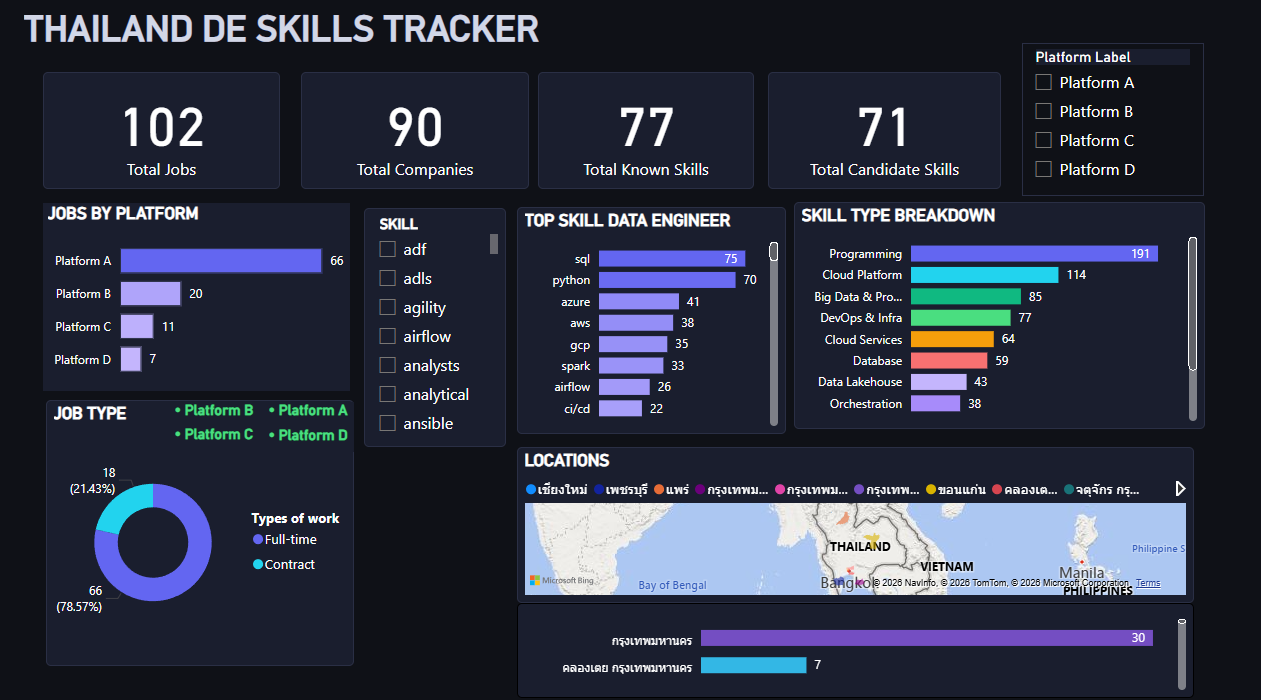
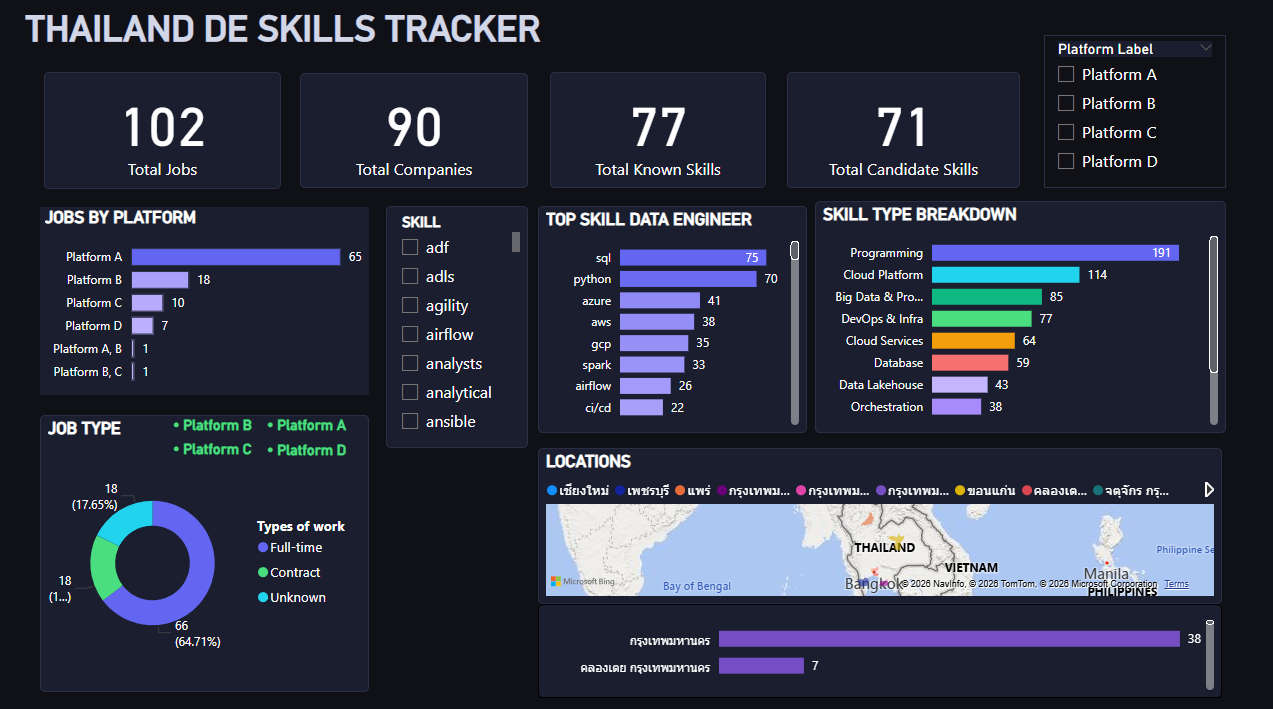
Update Power BI dashboard screenshot and embed link
Refresh docs/index.html with the latest dashboard screenshot and
the current working Power BI view link (old embed link had expired).

diff --git a/docs/index.html b/docs/index.html
@@ -10,11 +10,11 @@
 <meta property="og:title" content="Thailand Data Engineer Skills Tracker" />
 <meta property="og:description" content="An end-to-end Data Engineering pipeline — aggregating from 4 job platforms, Medallion (Bronze→Silver→Gold) modeling in dbt + PostgreSQL, orchestrated with Mage.ai, visualized in Power BI." />
 <meta property="og:url" content="https://windgabrielx.github.io/thailand-de-skills-tracker/" />
-<meta property="og:image" content="https://windgabrielx.github.io/thailand-de-skills-tracker/assets/dashboard.png?v=104" />
+<meta property="og:image" content="https://windgabrielx.github.io/thailand-de-skills-tracker/assets/dashboard.png?v=106" />
 <meta name="twitter:card" content="summary_large_image" />
 <meta name="twitter:title" content="Thailand Data Engineer Skills Tracker" />
 <meta name="twitter:description" content="End-to-end DE pipeline: 4 job boards → dbt star schema → Power BI. Python · PostgreSQL · Mage.ai · Docker." />
-<meta name="twitter:image" content="https://windgabrielx.github.io/thailand-de-skills-tracker/assets/dashboard.png?v=104" />
+<meta name="twitter:image" content="https://windgabrielx.github.io/thailand-de-skills-tracker/assets/dashboard.png?v=106" />
 <link rel="preconnect" href="https://fonts.googleapis.com" />
 <link rel="preconnect" href="https://fonts.gstatic.com" crossorigin />
 <link href="https://fonts.googleapis.com/css2?family=Inter:wght@400;500;600;700;800;900&family=JetBrains+Mono:wght@400;500&display=swap" rel="stylesheet" />
@@ -791,7 +791,7 @@ footer{margin-top:40px;padding:48px clamp(16px,4vw,48px) 40px;border-top:1px sol
       <div class="node glass n-gold"><div class="nicon">🥇</div><div class="nname">GOLD</div><div class="ndesc">Star schema</div><div class="ntag">6 tables</div></div>
       <div class="connector"><svg viewBox="0 0 56 40"><path class="flow-dash" d="M2 20 H54"/><circle class="flow-dot" r="3.5"><animateMotion dur="2s" begin="1.2s" repeatCount="indefinite" path="M2 20 H54"/></circle></svg></div>
       <a class="node glass n-cyan node-live"
-         href="https://app.powerbi.com/view?r=eyJrIjoiZmY5NWMxYWQtMDk4Yy00ODIxLTgyZGEtNDlkYmViNTQzNjYyIiwidCI6ImRiNWRlZjZiLThmZDgtNGEzZS05MWRjLThkYjI1MDFhNjgyMiIsImMiOjEwfQ%3D%3D"
+         href="https://app.powerbi.com/view?r=eyJrIjoiYzBkMDc0MGYtMGY0OS00N2Q0LWI2MTctYjA2ZTJhMWY1NTgyIiwidCI6ImRiNWRlZjZiLThmZDgtNGEzZS05MWRjLThkYjI1MDFhNjgyMiIsImMiOjEwfQ%3D%3D"
          target="_blank" rel="noopener noreferrer"
          aria-label="Open the live Power BI dashboard in a new tab">
         <span class="live-badge"><span class="ld"></span>LIVE</span>
@@ -903,7 +903,7 @@ footer{margin-top:40px;padding:48px clamp(16px,4vw,48px) 40px;border-top:1px sol
     </div>
     <div class="frame purple reveal d1">
       <div class="bar"><i></i><i></i><i></i></div>
-      <img src="assets/dashboard.png?v=104" alt="Power BI dashboard — KPI cards, top skills, job type breakdown and locations map" loading="lazy"/>
+      <img src="assets/dashboard.png?v=106" alt="Power BI dashboard — KPI cards, top skills, job type breakdown and locations map" loading="lazy"/>
     </div>
     <div class="page-tabs reveal d2">
       <span class="ptab">Top DE Skills</span><span class="ptab">Skill-Type Breakdown</span>
@@ -911,7 +911,7 @@ footer{margin-top:40px;padding:48px clamp(16px,4vw,48px) 40px;border-top:1px sol
     </div>
     <div class="reveal d3" style="text-align:center;margin-top:30px">
       <a class="btn btn-primary magnetic"
-         href="https://app.powerbi.com/view?r=eyJrIjoiZmY5NWMxYWQtMDk4Yy00ODIxLTgyZGEtNDlkYmViNTQzNjYyIiwidCI6ImRiNWRlZjZiLThmZDgtNGEzZS05MWRjLThkYjI1MDFhNjgyMiIsImMiOjEwfQ%3D%3D"
+         href="https://app.powerbi.com/view?r=eyJrIjoiYzBkMDc0MGYtMGY0OS00N2Q0LWI2MTctYjA2ZTJhMWY1NTgyIiwidCI6ImRiNWRlZjZiLThmZDgtNGEzZS05MWRjLThkYjI1MDFhNjgyMiIsImMiOjEwfQ%3D%3D"
          target="_blank" rel="noopener noreferrer">📊 View Live Dashboard <span class="btn-live"><span class="lp-dot"></span>LIVE</span></a>
       <div class="dash-type" id="dashType" aria-hidden="true"></div>
     </div>